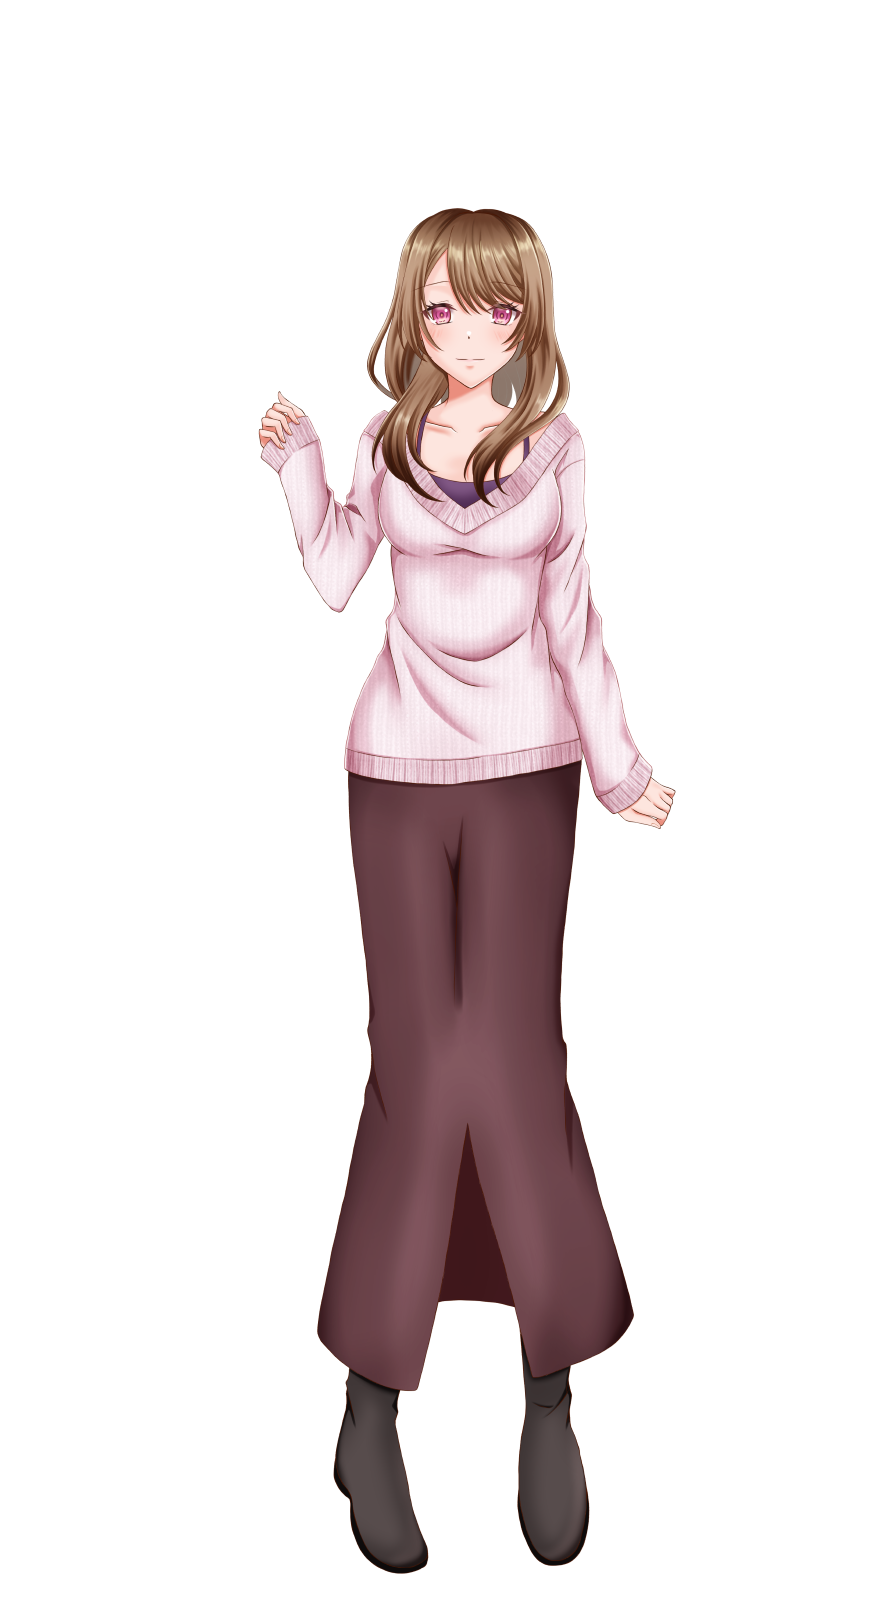
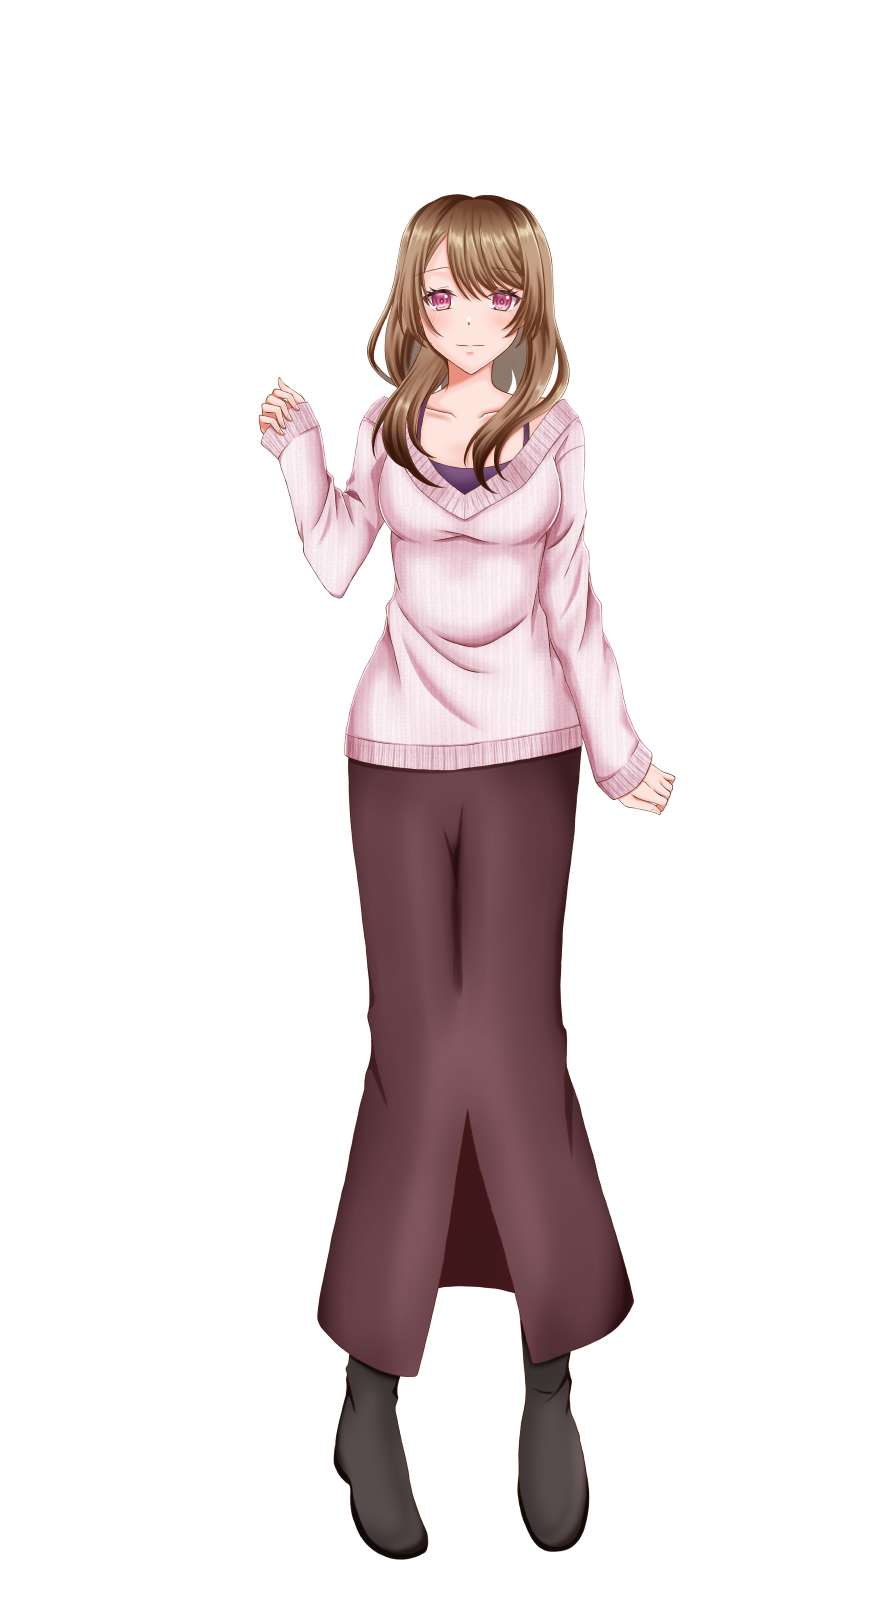
キャラクターページ前世追加

diff --git a/js/pastlife.js b/js/pastlife.js
@@ -1,0 +1,150 @@
+/* =========================================================
+   キャラクターページ：今世／前世の切り替え
+   下の PAST_LIVES に書いたキャラだけ、「今世｜前世」ボタンが付きます。
+   前世の立ち絵は images/chara/ に置いてください。
+   ========================================================= */
+
+(function () {
+  /* ---------- 前世の情報 ---------- */
+  const PAST_LIVES = {
+    yuzuki: {
+      name: "花祈姫",
+      ruby: "はなのりひめ",
+      role: "常夜の灯",
+      image: "images/chara/hananorihime.png",
+      intro: "古き時代、祈りと記憶を司る一族に生まれた姫。<br>“記憶紡ぎ”と“夢渡り”という特別な力を持っていた。",
+      quote: "",
+    },
+    genma: {
+      name: "蒼真",
+      ruby: "そうま",
+      role: "暁の蒼",
+      image: "images/chara/souma.png",
+      intro: "花祈姫に仕えた“蒼の護衛”。<br>朔夜とは異なる役割を担い、主に宮中の外側で姫を守っていた。",
+      quote: "「ご安心ください。貴女は必ずや、私が守ります」",
+    },
+    iori: {
+      name: "朔夜",
+      ruby: "さくや",
+      role: "月なき夜",
+      image: "images/chara/sakuya.png",
+      intro: "花祈姫の護衛の中でも、もっとも近くで彼女を守り続けた男。<br>時に自身を犠牲にするほど、花祈姫のことを常に第一に想っていた。",
+      quote: "「ひとつだけ覚えていてください。どこにいても、私は必ず貴女を見つけます」",
+    },
+  };
+
+  /* ---------- 見た目 ---------- */
+  const style = document.createElement("style");
+  style.textContent = `
+    .life-toggle {
+      display: inline-flex;
+      border: 1px solid var(--line);
+      border-radius: 999px;
+      padding: 3px;
+      margin-bottom: 18px;
+      background: rgba(7, 11, 31, 0.4);
+    }
+    .life-toggle button {
+      background: none;
+      border: none;
+      border-radius: 999px;
+      padding: 5px 20px;
+      font-family: var(--font-title);
+      font-size: 0.9rem;
+      letter-spacing: 0.2em;
+      color: var(--text-sub);
+      cursor: pointer;
+      transition: background .3s, color .3s, box-shadow .3s;
+    }
+    .life-toggle button:hover { color: var(--text); }
+    .life-toggle button.is-on {
+      background: rgba(232, 199, 122, 0.16);
+      color: var(--gold);
+      box-shadow: 0 0 12px var(--gold-soft);
+    }
+    .chara-past-note {
+      font-size: 0.85rem;
+      color: var(--text-sub);
+      letter-spacing: 0.1em;
+      margin: 4px 0 20px;
+    }
+    .chara-detail .is-hidden { display: none !important; }
+    .life-fade { animation: lifeFade .6s ease; }
+    @keyframes lifeFade {
+      from { opacity: 0; filter: blur(4px); }
+      to   { opacity: 1; filter: none; }
+    }
+  `;
+  document.head.appendChild(style);
+
+  /* ---------- 「今世｜前世」ボタンを作る ---------- */
+  function makeToggle(section) {
+    const box = document.createElement("div");
+    box.className = "life-toggle";
+    box.innerHTML = '<button type="button" data-life="now">今世</button><button type="button" data-life="past">前世</button>';
+    box.addEventListener("click", (e) => {
+      const btn = e.target.closest("button");
+      if (btn) setLife(section, btn.dataset.life);
+    });
+    return box;
+  }
+
+  function setLife(section, life) {
+    const isPast = life === "past";
+    const parts = section._life;
+    parts.nowStand.classList.toggle("is-hidden", isPast);
+    parts.nowText.classList.toggle("is-hidden", isPast);
+    parts.pastStand.classList.toggle("is-hidden", !isPast);
+    parts.pastText.classList.toggle("is-hidden", !isPast);
+
+    const shown = isPast ? [parts.pastStand, parts.pastText] : [parts.nowStand, parts.nowText];
+    shown.forEach((el) => {
+      el.classList.remove("life-fade");
+      void el.offsetWidth;          // アニメーションをやり直すため
+      el.classList.add("life-fade");
+    });
+
+    section.querySelectorAll(".life-toggle button").forEach((b) => {
+      b.classList.toggle("is-on", b.dataset.life === life);
+    });
+  }
+
+  /* ---------- 各キャラに前世を追加 ---------- */
+  Object.entries(PAST_LIVES).forEach(([id, past]) => {
+    const section = document.getElementById(id);
+    if (!section) return;
+    const nowStand = section.querySelector(".chara-stand");
+    const nowText = section.querySelector(".chara-text");
+    if (!nowStand || !nowText) return;
+
+    const nowName = (section.querySelector(".chara-name")?.lastChild?.textContent || "").trim();
+
+    // 前世の立ち絵
+    const pastStand = document.createElement("div");
+    pastStand.className = "chara-stand is-hidden";
+    pastStand.innerHTML = `<img src="${past.image}" alt="${past.name}">`;
+
+    // 前世のプロフィール（年齢・身長などは今世の欄をそのまま使う）
+    const pastText = document.createElement("div");
+    pastText.className = "chara-text is-hidden";
+    const profile = section.querySelector(".chara-profile");
+    pastText.innerHTML = `
+      <p class="chara-role">${past.role}</p>
+      <h2 class="chara-name"><span class="ruby">${past.ruby}</span>${past.name}</h2>
+      <p class="chara-past-note">${nowName}の前世</p>
+      ${profile ? profile.outerHTML : ""}
+      <p>${past.intro}</p>
+      ${past.quote ? `<p class="chara-quote">${past.quote}</p>` : ""}
+    `;
+
+    nowStand.after(pastStand);
+    nowText.after(pastText);
+
+    nowText.prepend(makeToggle(section));
+    pastText.prepend(makeToggle(section));
+
+    section._life = { nowStand, nowText, pastStand, pastText };
+    setLife(section, "now");
+    [nowStand, nowText].forEach((el) => el.classList.remove("life-fade"));
+  });
+})();

diff --git a/character.html b/character.html
@@ -222,5 +222,6 @@
   <!-- Cloudflare Web Analytics --><script type='module' src='https://static.cloudflareinsights.com/beacon.min.js' data-cf-beacon='{"token": "5b90241d184643a3bd6e7395674b8b5f"}'></script><!-- End Cloudflare Web Analytics -->
   <script src="js/main.js"></script>
   <script src="js/stills.js?v=1"></script>
+  <script src="js/pastlife.js?v=1"></script>
 </body>
 </html>
